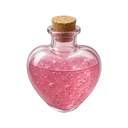
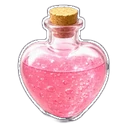
v239: het lila flesje en het hartflesje van Toverdranken zijn groter en helderder

diff --git a/bundel.js b/bundel.js
@@ -164,7 +164,7 @@ ${T?'<button class="knop volgende" id="gsdirect" style="font-size:1.35em;padding
  <section class="kaart hwblok"><h3>\u{1F4DC} Het verhaal</h3><ul class="hwverh">${g.map((ce,fe)=>{const me=ce.d<=U.i;return`<li class="${me?"":"dicht"}">${me?`<button class="linkknop" data-sc="${fe}">${A.sc[fe]?"":'<b class="hwnieuw">Nieuw</b> '}${ce.t}</button>`:`<span>\u{1F512} ${ce.t}</span><small>vanaf ${i(U.j,ce.d)}</small>`}</li>`}).join("")}</ul></section>
  </div>`);const Q=$("#hwclaim");Q&&(Q.onclick=T),document.querySelectorAll("[data-sc]").forEach(ce=>ce.onclick=()=>{const fe=+ce.dataset.sc;x(g[fe],()=>{A.sc[fe]||(A.sc[fe]=1,s(10,"verhaal"),toast("\u{1F4DC} +10 Pompoensnoepjes van Henk")),V.halloween()})}),document.querySelectorAll(".hwopties [data-o]").forEach(ce=>ce.onclick=()=>{const fe=+ce.dataset.o,me=m[N],Le=$("#hwraadres");if(fe===me[2]){A.raad[N]=1,s(15,"raadsel"),S.galjoenen+=10,bewaar();try{stats(),fx.speel("goed"),vib([20,30,40])}catch{}Le.innerHTML=`<div class="hwgoed">${window.tilly?tilly("<b>Goed zo!</b> "+me[3]):""}<p>+15 Pompoensnoepjes \xB7 +10 Smekkies</p><button class="knop klein" id="hwrv">Verder</button></div>`,document.querySelectorAll(".hwopties button").forEach(He=>He.disabled=!0),$("#hwrv").onclick=()=>V.halloween()}else{ce.disabled=!0,ce.classList.add("mis");try{fx.speel("kras")}catch{}Le.innerHTML='<p class="klein hwhint">Hmm, dat is het niet. Probeer gerust nog eens, er is geen haast.</p>'}})};const Z=V.kamer;Z&&(V.kamer=(...U)=>{const A=Z(...U);try{const N=document.querySelector(".kamer");N&&(S.hwTrofee||[]).length&&!N.querySelector(".hwtrofee")&&N.insertAdjacentHTML("beforeend",`<div class="hwtrofee" title="Gouden Pompoen ${S.hwTrofee.join(", ")}"><img src="img/hw/trofee-256.webp" alt="Gouden Pompoen"><small>Halloween ${S.hwTrofee.join(" \xB7 ")}</small></div>`)}catch{}return A});try{if(typeof KAARTEN<"u"&&!KAARTEN.some(U=>U[0]==L)&&(KAARTEN.push([L,"Z","Het huisspook van Griffoendor. Zijn hoofd hangt nog aan \xE9\xE9n reepje vel. Op 31 oktober vierde hij zijn vijfhonderdste sterfdag, en jij was erbij.","img/kaarten/haast-onthoofde-henk.webp","Feestdagen",1]),window.KAARTSERIES&&!KAARTSERIES.includes("Feestdagen")&&KAARTSERIES.push("Feestdagen")),typeof trekKaart=="function"){const U=trekKaart;trekKaart=function(){let A;for(let N=0;N<30;N++)if(A=U(),!A||!A[5])return A;return KAARTEN.find(N=>!N[5])}}}catch(U){console.warn(U)}const ee=V.maker;ee&&(V.maker=(...U)=>{const A=ee(...U);try{const N=o(),Q=localStorage.getItem("zw_hwdatum")||"";$("#app").insertAdjacentHTML("beforeend",`<section class="kaart sierlijst"><h3>Halloween (test)</h3><p class="klein">Nu: ${N.d.toLocaleDateString("nl-NL",{weekday:"long",day:"numeric",month:"long"})} \xB7 ${N.aan?"event AAN (dag "+(N.i+1)+" van 9"+(N.feest?", feestdag":"")+")":"event uit"}${Q?" \xB7 <b>testdatum</b>":""} \xB7 ${(S.hw&&S.hw.tot)|0} snoepjes, stap ${(S.hw&&S.hw.stap)|0}/10</p>
   <p><input type="date" id="hwdat" value="${Q||N.d.getFullYear()+"-"+e(N.d.getMonth()+1)+"-"+e(N.d.getDate())}"> <button class="knop klein" id="hwzet">Gebruik datum</button> <button class="knop klein" id="hwecht">Echte datum</button></p>
-  <p><button class="knop klein" id="hw100">+100 snoepjes</button> <button class="knop klein" id="hwwis">Halloween-voortgang wissen</button></p></section>`),$("#hwzet").onclick=()=>{localStorage.setItem("zw_hwdatum",$("#hwdat").value),te(),V.maker()},$("#hwecht").onclick=()=>{localStorage.removeItem("zw_hwdatum"),te(),V.maker()},$("#hw100").onclick=()=>{s(100,"test"),V.maker()},$("#hwwis").onclick=()=>{delete S.hw,bewaar(),V.maker()}}catch(N){console.warn(N)}return A})})(),(function(){const e="v238";window.ZW_VERSIE=e;const n=()=>`<p class="zwversie">Zweinstein Luna ${e}</p>`,a=V.meer;a&&(V.meer=(...i)=>{const r=a(...i);try{const l=$("#app");l&&!l.querySelector(".zwversie")&&l.insertAdjacentHTML("beforeend",n())}catch{}return r});const o=V.maker;o&&(V.maker=(...i)=>{const r=o(...i);try{const l=$("#app h2");l&&!$("#app .zwversie")&&l.insertAdjacentHTML("afterend",n())}catch{}return r})})(),(()=>{if(typeof m3Winst!="function"||typeof Bord>"u")return;const e=matchMedia("(prefers-reduced-motion: reduce)").matches,n=h=>new Promise(f=>setTimeout(f,h));let a=0,o=0;function i(){let h=document.getElementById("m3sc");if(!h){const f=document.querySelector(".m3mid .m3titel");if(!f)return null;f.insertAdjacentHTML("afterend",'<div class="m3score">Score <b id="m3sc">0</b></div>'),h=document.getElementById("m3sc"),a=0}return h}setInterval(()=>{try{if(typeof M3>"u"||!M3.b||M3.b.sim||document.body.dataset.view!=="match3")return;const h=i();if(!h)return;o=M3.b.score|0,a>o&&(a=o),a<o&&(a=Math.min(o,a+Math.max(5,Math.ceil((o-a)/4))),h.textContent=a.toLocaleString("nl-NL")),p(M3.b)}catch{}},60);let r=null,l=-1;function p(h){const f=document.getElementById("m3bv");if(!f||!h._grens)return;r!==h&&(r=h,l=-1);const K=Math.min(100,a/h._max*100);Math.abs(K-l)>=.2&&(l=K,f.style.width=K.toFixed(1)+"%");const E=document.querySelectorAll("#m3balk .m3bs"),g=[h.klaar&&h.klaar(),a>=h._grens[0],a>=h._grens[1]];E.forEach((x,m)=>{if(g[m]&&!x.classList.contains("aan")){if(x.classList.add("aan","pop"),setTimeout(()=>x.classList.remove("pop"),600),m)try{fx.speel("munt")}catch{}}else!g[m]&&x.classList.contains("aan")&&x.classList.remove("aan")})}const w=h=>{const f=[];for(let K=0;K<RIJEN;K++)for(let E=0;E<KOL;E++){const g=h.g[K][E];g&&g.k>=0&&!g.s&&!h.kist[K][E]&&!(h.strik&&h.strik[K][E])&&f.push([K,E])}return f},y=h=>{const f=[];for(let K=0;K<RIJEN;K++)for(let E=0;E<KOL;E++){const g=h.g[K][E];g&&g.s&&!h.kist[K][E]&&!(h.strik&&h.strik[K][E])&&f.push([K,E])}return f};function d(h,f,K){if(e||!h||!f)return;const E=document.createElement("div");E.className="m3vonk",document.body.appendChild(E);const g=f[0]-h[0],x=f[1]-h[1];E.style.left=h[0]+"px",E.style.top=h[1]+"px",E.animate([{transform:"translate(-50%,-50%) scale(.6)",opacity:.2},{transform:`translate(calc(${g*.5}px - 50%),calc(${x*.5-40}px - 50%)) scale(1.1)`,opacity:1,offset:.5},{transform:`translate(calc(${g}px - 50%),calc(${x}px - 50%)) scale(.7)`,opacity:.9}],{duration:K,easing:"cubic-bezier(.4,0,.3,1)",fill:"forwards"}).onfinish=()=>E.remove(),setTimeout(()=>E.remove(),K+400)}function j(h,f,K){const E=document.createElement("div");E.className="m3plus",E.textContent=K,E.style.left=h+"px",E.style.top=f+"px",document.body.appendChild(E),setTimeout(()=>E.remove(),900)}async function u(h){const f={pop:0,boem:0,spec:0,score0:h.score|0};window._feestLog=f;const K=document.getElementById("m3c"),E=document.getElementById("m3z");if(!K||!E)return;const g=(h._feestZet!=null?h._feestZet:h.zet)|0;let x=g,m=1,k=0;h.telDoel=()=>{},h.zaadKist=1;const v=h.fx.push;h.fx.push=function(...se){return v.apply(this,se.map(ae=>ae&&ae.t=="schat"?{t:"tik",r:ae.r,c:ae.c,s:ae.s}:ae&&ae.t=="vrij"?{t:"plank",r:ae.r,c:ae.c,over:0}:ae))},h.wacht=se=>new Promise(ae=>setTimeout(ae,se/m));const s=document.createElement("div");s.id="m3feest",s.innerHTML="<span>Tik om te versnellen</span>",document.body.appendChild(s),s.addEventListener("pointerdown",se=>{se.preventDefault(),k++,m=Math.min(12,k==1?3.5:m*1.7),s.classList.add("snel"),s.querySelector("span").textContent=m>=6?"\u23E9\u23E9 Supersnel":"\u23E9 Sneller";try{fx.speel("whoosh")}catch{}});const z=()=>K.getBoundingClientRect(),c=()=>z().width/KOL,b=(se,ae)=>{const te=z(),pe=te.width/KOL;return[te.left+(ae+.5)*pe,te.top+(se+.5)*pe]},M=()=>{const se=E.getBoundingClientRect();return[se.left+se.width/2,se.top+se.height/2]},R=Math.max(70,Math.min(170,4200/Math.max(1,g)));try{for(let te=1;te<=g;te++){const pe=w(h);if(!pe.length)break;const ne=R/m,X=pe[Math.random()*pe.length|0];d(M(),b(...X),Math.max(60,ne*1.1)),x--,E.textContent=x,E.parentNode.classList.toggle("weinig",!1),await n(Math.max(40,ne*1.05));const[t,_]=X;if(te%5===0){const O=[];for(let de=t-1;de<=t+1;de++)for(let C=_-1;C<=_+1;C++)if(h.binnen(de,C)){const T=h.g[de][C];T&&T.k>=0&&!T.s&&!h.kist[de][C]&&!(h.strik&&h.strik[de][C])&&O.push([de,C,T.k])}O.forEach(([de,C,T])=>{h.g[de][C].weg=1,h.g[de][C]=null,h.fx.push({t:"pof",r:de,c:C,k:T})}),h.fx.push({t:"bom",r:t,c:_,R:1});const D=60*O.length+200;h.score+=D,f.boem++;const q=b(t,_);j(q[0],q[1],"+"+D);try{fx.speel("kist")}catch{}}else{const O=h.g[t][_];O&&(O.weg=1,h.g[t][_]=null,h.fx.push({t:"pof",r:t,c:_,k:O.k})),h.score+=100,f.pop++;const D=b(t,_);te%2&&j(D[0],D[1],"+100");try{fx.speel("klik")}catch{}}try{M3.toonFx()}catch{}h.val()}E.textContent=0,await n(Math.max(60,260/m)),await M3.knal([]);const se=Date.now();let ae=0;for(;ae<30&&Date.now()-se<9e3;){const te=y(h);if(!te.length)break;const pe=te.sort((_,O)=>_[0]-O[0]||_[1]-O[1])[0],ne=b(...pe),X=h.score;if(!await M3.knal([pe])){await n(120),ae++;continue}h.score+=150,f.spec++,ae++,j(ne[0],ne[1],"+"+(h.score-X|0));try{fx.speel("tover")}catch{}await n(Math.max(40,180/m))}await n(Math.max(80,350/m))}catch(se){console.warn(se)}finally{s.remove(),delete h.telDoel,delete h.wacht,h.fx.push=v,E.textContent=g,f.score=h.score|0,f.sp=m;const se=i();se&&(a=h.score|0,se.textContent=a.toLocaleString("nl-NL"))}}const L=m3Winst;window.m3Winst=m3Winst=function(h,f,...K){let E=!1;try{E=!!(f&&!f.sim&&!f._feest&&f.zet>0&&typeof M3<"u"&&M3.b===f&&M3.knal&&document.getElementById("m3c")&&document.body.dataset.view==="match3")}catch{}const g=()=>{let k;try{k=L.call(this,h,f,...K)}finally{try{ECO.winKlaar(h)}catch{}}try{const v=f.score|0,s=document.querySelector(".m3eind h2");s&&v&&!document.querySelector(".m3eindscore")&&s.insertAdjacentHTML("afterend",`<p class="m3eindscore">Score <b>${v.toLocaleString("nl-NL")}</b></p>`)}catch{}return k};if(!E)return g();f._feest=1;try{ECO.winStart(h,f)}catch{}let x=!1;const m=()=>{x||(x=!0,g())};u(f).catch(k=>console.warn(k)).finally(m),setTimeout(m,3e4)}})(),(()=>{if(typeof V>"u"||!V.mijnkas)return;const e=m=>typeof m=="function",n=()=>S.m3lvl|0,a=m=>typeof ZADEN<"u"&&ZADEN[m]?ZADEN[m][0]:m,o=()=>Date.now(),i=[1e3,1600,2400,3200],r=["de groene kruidenpot","de Edelsteenpot","de Kristalpot","de Hartpot"];function l(){const m=[];return document.querySelectorAll(".mk-pot[data-i]").forEach(k=>m.push({i:+k.dataset.i,el:k,sel:`.mk-pot[data-i="${k.dataset.i}"]`})),document.querySelectorAll(".mk-vloer[data-m]").forEach(k=>{const v=+k.dataset.m;S.mega&&S.mega[v]||m.push({i:200+v,el:k,sel:`.mk-vloer[data-m="${v}"]`})}),m}const p=m=>(S.kweek||{})[m]||null,w=m=>e(window.stadium)||typeof stadium=="function"?stadium(m):-1;function y(m){return Object.keys(S.zaden||{}).filter(k=>(S.zaden[k]|0)>0&&typeof ZADEN<"u"&&ZADEN[k]&&(typeof kruidMag!="function"||kruidMag(k,m)))}function d(){if(typeof ZADEN>"u")return null;let m=null;return Object.entries(ZADEN).forEach(([k,v])=>{window.SUPERPLANTEN&&SUPERPLANTEN[k]||window.zaadDicht&&zaadDicht(k)||typeof kruidSlot=="function"&&kruidSlot(k)||(!m||v[3]<m[1])&&(m=[k,v[3]])}),m}function j(){const m=[],k=l(),v=k.filter(te=>!p(te.i)),s=k.filter(te=>p(te.i)&&w(p(te.i))<4),z=k.filter(te=>p(te.i)&&w(p(te.i))==4),c=S.galjoenen|0,b=window.leraarPoort&&leraarPoort();if(b){const te=i[0];m.push({id:"poort",ico:"\u{1FAB4}",wie:b.prof,tekst:c>=te?`Koop ${r[0]} bij Potten. Dan gaat level ${b.na+1} open.`:`Spaar voor ${r[0]}. Daarna gaat level ${b.na+1} open.`,tel:`${Math.min(c,te)}/${te}`,doel:"#potwinkel",doen:c>=te})}if(z.length){const te=z[0];m.push({id:"oogst",ico:"\u{1F33F}",tekst:z.length>1?`Oogst je planten! ${a(p(te.i).z)} is klaar, en nog ${z.length-1} andere.`:`Oogst je ${a(p(te.i).z)}. Hij is klaar!`,tel:null,doel:te.sel,doen:!0})}if(e(window.kOpdr)||typeof kOpdr=="function")try{const te=kOpdr(),pe=te[0],ne=window.zaadDicht&&zaadDicht(pe),X=typeof kruidSlot=="function"&&kruidSlot(pe),t=kOpdrTel();if(ne||X)m.push({id:"opdr",ico:"\u{1F4DC}",wie:te[3],tekst:te[2],tel:`${t}/${te[1]}`,dicht:ne?`Vanaf level ${ne}`:"Eerst de groene kruidenpot"});else{const _=s.find(C=>p(C.i).z===pe),O=v.find(C=>typeof kruidMag!="function"||kruidMag(pe,C.i));let D,q=null,de=!1;z.some(C=>p(C.i).z===pe)?(D=`Oogst je ${a(pe)}.`,q=z.find(C=>p(C.i).z===pe).sel,de=!0):_?(D=`Je ${a(pe)} groeit. Nog ${tijd(rest(p(_.i)))}.`,q=_.sel):(S.zaden[pe]|0)>0&&O?(D=`Plant een ${a(pe)}-zaadje.`,q=O.sel,de=!0):(S.zaden[pe]|0)>0?D=`Plant een ${a(pe)}-zaadje zodra er een pot vrij is.`:c>=ZADEN[pe][3]?(D=`Koop een ${a(pe)}-zaadje in de Winkel.`,q="#balkwinkel",de=!0):D=`Speel een level voor Smekkies voor een ${a(pe)}-zaadje.`,m.push({id:"opdr",ico:"\u{1F4DC}",wie:te[3],tekst:`${te[2]}. ${D}`,tel:`${t}/${te[1]}`,doel:q,doen:de})}}catch{}if(v.length){const te=v[0];if(y(te.i).length)m.push({id:"plant",ico:"\u{1F331}",tekst:"Plant een zaadje in je lege pot.",tel:null,doel:te.sel,doen:!0});else{const ne=d();ne&&c>=ne[1]&&m.push({id:"zaad",ico:"\u{1F6CD}\uFE0F",tekst:`Koop zaadjes in de Winkel (${a(ne[0])} kost ${ne[1]} Smekkies).`,doel:"#balkwinkel",doen:!0})}}const M=te=>window.spreukGeleerd&&spreukGeleerd(te),R=te=>!window.spreukOpen||spreukOpen(te),se=window.SPREUK_VAN||{flipendo:3,leviosa:6};if(window.waterMag&&waterMag())if(!S.kooiOpen)m.push({id:"kooi",ico:"\u{1F513}",tekst:"Open de kooi: tik op de knop met Flipendo naast het blok.",doel:".mk-kooiknop",doen:!0});else{const te=document.querySelector(".mk-kamer"),pe=te&&te.classList.contains("sproei"),X=1-((S.water||{}).blok|0),t=document.querySelector(`.mk-silos .mk-unit[data-i="${X}"] span`),_=t&&parseInt(t.textContent)>=100;!pe&&_&&m.push({id:"blok",ico:"\u{1F4A7}",tekst:"Een silo is vol! Laat het blok met Wingardium Leviosa naar de knop bij die silo zweven.",doel:".mk-blok",doen:!0})}else for(const[te,pe]of[["flipendo","Flipendo"],["leviosa","Wingardium Leviosa"]])if(!M(te)){R(te)?m.push({id:"les-"+te,ico:"\u{1FA84}",wie:"Professor Banning",tekst:`Leer ${pe} bij Professor Banning. Dan kan het water in je kas aan.`,doel:".mk-leviosa .knop",doen:!0}):m.push({id:"les-"+te,ico:"\u{1FA84}",wie:"Professor Banning",tekst:`Leer ${pe} voor de sproeiers.`,dicht:`Vanaf level ${se[te]}`});break}if(!document.querySelector(".mk-kamer.sproei")){const te=s.find(pe=>!(p(pe.i).nat>o()));te&&m.push({id:"water",ico:"\u{1F4A6}",tekst:`Geef je ${a(p(te.i).z)} water. Dan groeit hij 25% sneller.`,doel:te.sel,doen:!0})}try{const te=ne=>typeof telV=="function"?telV("oogst",ne):0;if(typeof dagQuests=="function"){const ne=dagQuests().find(X=>X[0]==="oogst");ne&&!(S.questKlaar||{})[vandaag()+"oogst"]&&te(0)<ne[1]&&m.push({id:"quest",ico:"\u{1F4CB}",tekst:ne[2]+".",tel:`${Math.min(ne[1],te(0))}/${ne[1]}`,info:1})}if((((S.tel||{})[vandaag()]||{}).oogst|0)<1&&m.push({id:"dagdoel",ico:"\u2B50",tekst:"Dagdoel: oogst vandaag een plant.",tel:"0/1",info:1}),typeof WEEKQ<"u"){const ne=WEEKQ.find(X=>X[0]==="oogst");ne&&te(1)<ne[1]&&m.push({id:"week",ico:"\u{1F4C5}",tekst:ne[2]+".",tel:`${Math.min(ne[1],te(1))}/${ne[1]}`,info:1})}}catch{}if(!b){const te=S.potUpgrade|0,pe=n()>=101||!!S.groteTafel||te>=3;te<4&&(te<2||pe)&&c>=i[te]&&m.push({id:"pot",ico:"\u{1F3FA}",tekst:`Je kunt ${r[te]} kopen bij Potten (${i[te]} Smekkies). Dan heb je plek voor een plant meer.`,doel:"#potwinkel",doen:!0})}return{T:m,groei:s}}function u(m){if(!m.length)return"Alles gedaan! Speel een level, dan verdien je Smekkies voor nieuwe zaadjes.";const k=Math.min(...m.map(v=>rest(p(v.i))));return`Alles gedaan! Kom terug als je planten klaar zijn (over ${tijd(k)}).`}let L=!1,h="";const f=m=>String(m).replace(/[&<>"]/g,k=>({"&":"&amp;","<":"&lt;",">":"&gt;",'"':"&quot;"})[k]);function K(m){if(document.body.dataset.view!=="mijnkas")return;const k=document.getElementById("app");if(!k||!k.querySelector(".mk-kamer"))return;const{T:v,groei:s}=j(),c=v.filter(ae=>ae.doen&&!ae.dicht)[0]||null,b=v.filter(ae=>ae!==c),M=JSON.stringify([L,v.map(ae=>[ae.id,ae.tekst,ae.tel,ae.dicht]),c?"":u(s)]);if(!m&&M===h&&document.getElementById("kastaak"))return;h=M;let R=document.getElementById("kastaak");R||(R=document.createElement("section"),R.id="kastaak",R.className="kastaak",k.appendChild(R));const se=ae=>`<li class="${ae.dicht?"dicht":""}${ae.info?" info":""}"><span class="kt-ico">${ae.ico}</span><span class="kt-txt">${ae.wie&&!ae.tekst.includes(ae.wie)?`<b>${f(ae.wie)}:</b> `:""}${f(ae.tekst)}${ae.dicht?` <em class="kt-slot">\u{1F512} ${f(ae.dicht)}</em>`:""}</span>${ae.tel?`<span class="kt-tel">${ae.tel}</span>`:""}${ae.doel&&!ae.dicht?`<button type="button" class="kt-wijs" data-doel="${f(ae.doel)}" aria-label="Laat zien waar">\u279C</button>`:""}</li>`;R.innerHTML=`<div class="kt-kop" role="button" aria-expanded="${L}"><span class="kt-label">${c?"Volgende stap":"Klaar voor nu"}</span>${b.length?`<span class="kt-meer">${L?"Minder \u25B4":`Nog ${b.length} \u25BE`}</span>`:""}</div>
+  <p><button class="knop klein" id="hw100">+100 snoepjes</button> <button class="knop klein" id="hwwis">Halloween-voortgang wissen</button></p></section>`),$("#hwzet").onclick=()=>{localStorage.setItem("zw_hwdatum",$("#hwdat").value),te(),V.maker()},$("#hwecht").onclick=()=>{localStorage.removeItem("zw_hwdatum"),te(),V.maker()},$("#hw100").onclick=()=>{s(100,"test"),V.maker()},$("#hwwis").onclick=()=>{delete S.hw,bewaar(),V.maker()}}catch(N){console.warn(N)}return A})})(),(function(){const e="v239";window.ZW_VERSIE=e;const n=()=>`<p class="zwversie">Zweinstein Luna ${e}</p>`,a=V.meer;a&&(V.meer=(...i)=>{const r=a(...i);try{const l=$("#app");l&&!l.querySelector(".zwversie")&&l.insertAdjacentHTML("beforeend",n())}catch{}return r});const o=V.maker;o&&(V.maker=(...i)=>{const r=o(...i);try{const l=$("#app h2");l&&!$("#app .zwversie")&&l.insertAdjacentHTML("afterend",n())}catch{}return r})})(),(()=>{if(typeof m3Winst!="function"||typeof Bord>"u")return;const e=matchMedia("(prefers-reduced-motion: reduce)").matches,n=h=>new Promise(f=>setTimeout(f,h));let a=0,o=0;function i(){let h=document.getElementById("m3sc");if(!h){const f=document.querySelector(".m3mid .m3titel");if(!f)return null;f.insertAdjacentHTML("afterend",'<div class="m3score">Score <b id="m3sc">0</b></div>'),h=document.getElementById("m3sc"),a=0}return h}setInterval(()=>{try{if(typeof M3>"u"||!M3.b||M3.b.sim||document.body.dataset.view!=="match3")return;const h=i();if(!h)return;o=M3.b.score|0,a>o&&(a=o),a<o&&(a=Math.min(o,a+Math.max(5,Math.ceil((o-a)/4))),h.textContent=a.toLocaleString("nl-NL")),p(M3.b)}catch{}},60);let r=null,l=-1;function p(h){const f=document.getElementById("m3bv");if(!f||!h._grens)return;r!==h&&(r=h,l=-1);const K=Math.min(100,a/h._max*100);Math.abs(K-l)>=.2&&(l=K,f.style.width=K.toFixed(1)+"%");const E=document.querySelectorAll("#m3balk .m3bs"),g=[h.klaar&&h.klaar(),a>=h._grens[0],a>=h._grens[1]];E.forEach((x,m)=>{if(g[m]&&!x.classList.contains("aan")){if(x.classList.add("aan","pop"),setTimeout(()=>x.classList.remove("pop"),600),m)try{fx.speel("munt")}catch{}}else!g[m]&&x.classList.contains("aan")&&x.classList.remove("aan")})}const w=h=>{const f=[];for(let K=0;K<RIJEN;K++)for(let E=0;E<KOL;E++){const g=h.g[K][E];g&&g.k>=0&&!g.s&&!h.kist[K][E]&&!(h.strik&&h.strik[K][E])&&f.push([K,E])}return f},y=h=>{const f=[];for(let K=0;K<RIJEN;K++)for(let E=0;E<KOL;E++){const g=h.g[K][E];g&&g.s&&!h.kist[K][E]&&!(h.strik&&h.strik[K][E])&&f.push([K,E])}return f};function d(h,f,K){if(e||!h||!f)return;const E=document.createElement("div");E.className="m3vonk",document.body.appendChild(E);const g=f[0]-h[0],x=f[1]-h[1];E.style.left=h[0]+"px",E.style.top=h[1]+"px",E.animate([{transform:"translate(-50%,-50%) scale(.6)",opacity:.2},{transform:`translate(calc(${g*.5}px - 50%),calc(${x*.5-40}px - 50%)) scale(1.1)`,opacity:1,offset:.5},{transform:`translate(calc(${g}px - 50%),calc(${x}px - 50%)) scale(.7)`,opacity:.9}],{duration:K,easing:"cubic-bezier(.4,0,.3,1)",fill:"forwards"}).onfinish=()=>E.remove(),setTimeout(()=>E.remove(),K+400)}function j(h,f,K){const E=document.createElement("div");E.className="m3plus",E.textContent=K,E.style.left=h+"px",E.style.top=f+"px",document.body.appendChild(E),setTimeout(()=>E.remove(),900)}async function u(h){const f={pop:0,boem:0,spec:0,score0:h.score|0};window._feestLog=f;const K=document.getElementById("m3c"),E=document.getElementById("m3z");if(!K||!E)return;const g=(h._feestZet!=null?h._feestZet:h.zet)|0;let x=g,m=1,k=0;h.telDoel=()=>{},h.zaadKist=1;const v=h.fx.push;h.fx.push=function(...se){return v.apply(this,se.map(ae=>ae&&ae.t=="schat"?{t:"tik",r:ae.r,c:ae.c,s:ae.s}:ae&&ae.t=="vrij"?{t:"plank",r:ae.r,c:ae.c,over:0}:ae))},h.wacht=se=>new Promise(ae=>setTimeout(ae,se/m));const s=document.createElement("div");s.id="m3feest",s.innerHTML="<span>Tik om te versnellen</span>",document.body.appendChild(s),s.addEventListener("pointerdown",se=>{se.preventDefault(),k++,m=Math.min(12,k==1?3.5:m*1.7),s.classList.add("snel"),s.querySelector("span").textContent=m>=6?"\u23E9\u23E9 Supersnel":"\u23E9 Sneller";try{fx.speel("whoosh")}catch{}});const z=()=>K.getBoundingClientRect(),c=()=>z().width/KOL,b=(se,ae)=>{const te=z(),pe=te.width/KOL;return[te.left+(ae+.5)*pe,te.top+(se+.5)*pe]},M=()=>{const se=E.getBoundingClientRect();return[se.left+se.width/2,se.top+se.height/2]},R=Math.max(70,Math.min(170,4200/Math.max(1,g)));try{for(let te=1;te<=g;te++){const pe=w(h);if(!pe.length)break;const ne=R/m,X=pe[Math.random()*pe.length|0];d(M(),b(...X),Math.max(60,ne*1.1)),x--,E.textContent=x,E.parentNode.classList.toggle("weinig",!1),await n(Math.max(40,ne*1.05));const[t,_]=X;if(te%5===0){const O=[];for(let de=t-1;de<=t+1;de++)for(let C=_-1;C<=_+1;C++)if(h.binnen(de,C)){const T=h.g[de][C];T&&T.k>=0&&!T.s&&!h.kist[de][C]&&!(h.strik&&h.strik[de][C])&&O.push([de,C,T.k])}O.forEach(([de,C,T])=>{h.g[de][C].weg=1,h.g[de][C]=null,h.fx.push({t:"pof",r:de,c:C,k:T})}),h.fx.push({t:"bom",r:t,c:_,R:1});const D=60*O.length+200;h.score+=D,f.boem++;const q=b(t,_);j(q[0],q[1],"+"+D);try{fx.speel("kist")}catch{}}else{const O=h.g[t][_];O&&(O.weg=1,h.g[t][_]=null,h.fx.push({t:"pof",r:t,c:_,k:O.k})),h.score+=100,f.pop++;const D=b(t,_);te%2&&j(D[0],D[1],"+100");try{fx.speel("klik")}catch{}}try{M3.toonFx()}catch{}h.val()}E.textContent=0,await n(Math.max(60,260/m)),await M3.knal([]);const se=Date.now();let ae=0;for(;ae<30&&Date.now()-se<9e3;){const te=y(h);if(!te.length)break;const pe=te.sort((_,O)=>_[0]-O[0]||_[1]-O[1])[0],ne=b(...pe),X=h.score;if(!await M3.knal([pe])){await n(120),ae++;continue}h.score+=150,f.spec++,ae++,j(ne[0],ne[1],"+"+(h.score-X|0));try{fx.speel("tover")}catch{}await n(Math.max(40,180/m))}await n(Math.max(80,350/m))}catch(se){console.warn(se)}finally{s.remove(),delete h.telDoel,delete h.wacht,h.fx.push=v,E.textContent=g,f.score=h.score|0,f.sp=m;const se=i();se&&(a=h.score|0,se.textContent=a.toLocaleString("nl-NL"))}}const L=m3Winst;window.m3Winst=m3Winst=function(h,f,...K){let E=!1;try{E=!!(f&&!f.sim&&!f._feest&&f.zet>0&&typeof M3<"u"&&M3.b===f&&M3.knal&&document.getElementById("m3c")&&document.body.dataset.view==="match3")}catch{}const g=()=>{let k;try{k=L.call(this,h,f,...K)}finally{try{ECO.winKlaar(h)}catch{}}try{const v=f.score|0,s=document.querySelector(".m3eind h2");s&&v&&!document.querySelector(".m3eindscore")&&s.insertAdjacentHTML("afterend",`<p class="m3eindscore">Score <b>${v.toLocaleString("nl-NL")}</b></p>`)}catch{}return k};if(!E)return g();f._feest=1;try{ECO.winStart(h,f)}catch{}let x=!1;const m=()=>{x||(x=!0,g())};u(f).catch(k=>console.warn(k)).finally(m),setTimeout(m,3e4)}})(),(()=>{if(typeof V>"u"||!V.mijnkas)return;const e=m=>typeof m=="function",n=()=>S.m3lvl|0,a=m=>typeof ZADEN<"u"&&ZADEN[m]?ZADEN[m][0]:m,o=()=>Date.now(),i=[1e3,1600,2400,3200],r=["de groene kruidenpot","de Edelsteenpot","de Kristalpot","de Hartpot"];function l(){const m=[];return document.querySelectorAll(".mk-pot[data-i]").forEach(k=>m.push({i:+k.dataset.i,el:k,sel:`.mk-pot[data-i="${k.dataset.i}"]`})),document.querySelectorAll(".mk-vloer[data-m]").forEach(k=>{const v=+k.dataset.m;S.mega&&S.mega[v]||m.push({i:200+v,el:k,sel:`.mk-vloer[data-m="${v}"]`})}),m}const p=m=>(S.kweek||{})[m]||null,w=m=>e(window.stadium)||typeof stadium=="function"?stadium(m):-1;function y(m){return Object.keys(S.zaden||{}).filter(k=>(S.zaden[k]|0)>0&&typeof ZADEN<"u"&&ZADEN[k]&&(typeof kruidMag!="function"||kruidMag(k,m)))}function d(){if(typeof ZADEN>"u")return null;let m=null;return Object.entries(ZADEN).forEach(([k,v])=>{window.SUPERPLANTEN&&SUPERPLANTEN[k]||window.zaadDicht&&zaadDicht(k)||typeof kruidSlot=="function"&&kruidSlot(k)||(!m||v[3]<m[1])&&(m=[k,v[3]])}),m}function j(){const m=[],k=l(),v=k.filter(te=>!p(te.i)),s=k.filter(te=>p(te.i)&&w(p(te.i))<4),z=k.filter(te=>p(te.i)&&w(p(te.i))==4),c=S.galjoenen|0,b=window.leraarPoort&&leraarPoort();if(b){const te=i[0];m.push({id:"poort",ico:"\u{1FAB4}",wie:b.prof,tekst:c>=te?`Koop ${r[0]} bij Potten. Dan gaat level ${b.na+1} open.`:`Spaar voor ${r[0]}. Daarna gaat level ${b.na+1} open.`,tel:`${Math.min(c,te)}/${te}`,doel:"#potwinkel",doen:c>=te})}if(z.length){const te=z[0];m.push({id:"oogst",ico:"\u{1F33F}",tekst:z.length>1?`Oogst je planten! ${a(p(te.i).z)} is klaar, en nog ${z.length-1} andere.`:`Oogst je ${a(p(te.i).z)}. Hij is klaar!`,tel:null,doel:te.sel,doen:!0})}if(e(window.kOpdr)||typeof kOpdr=="function")try{const te=kOpdr(),pe=te[0],ne=window.zaadDicht&&zaadDicht(pe),X=typeof kruidSlot=="function"&&kruidSlot(pe),t=kOpdrTel();if(ne||X)m.push({id:"opdr",ico:"\u{1F4DC}",wie:te[3],tekst:te[2],tel:`${t}/${te[1]}`,dicht:ne?`Vanaf level ${ne}`:"Eerst de groene kruidenpot"});else{const _=s.find(C=>p(C.i).z===pe),O=v.find(C=>typeof kruidMag!="function"||kruidMag(pe,C.i));let D,q=null,de=!1;z.some(C=>p(C.i).z===pe)?(D=`Oogst je ${a(pe)}.`,q=z.find(C=>p(C.i).z===pe).sel,de=!0):_?(D=`Je ${a(pe)} groeit. Nog ${tijd(rest(p(_.i)))}.`,q=_.sel):(S.zaden[pe]|0)>0&&O?(D=`Plant een ${a(pe)}-zaadje.`,q=O.sel,de=!0):(S.zaden[pe]|0)>0?D=`Plant een ${a(pe)}-zaadje zodra er een pot vrij is.`:c>=ZADEN[pe][3]?(D=`Koop een ${a(pe)}-zaadje in de Winkel.`,q="#balkwinkel",de=!0):D=`Speel een level voor Smekkies voor een ${a(pe)}-zaadje.`,m.push({id:"opdr",ico:"\u{1F4DC}",wie:te[3],tekst:`${te[2]}. ${D}`,tel:`${t}/${te[1]}`,doel:q,doen:de})}}catch{}if(v.length){const te=v[0];if(y(te.i).length)m.push({id:"plant",ico:"\u{1F331}",tekst:"Plant een zaadje in je lege pot.",tel:null,doel:te.sel,doen:!0});else{const ne=d();ne&&c>=ne[1]&&m.push({id:"zaad",ico:"\u{1F6CD}\uFE0F",tekst:`Koop zaadjes in de Winkel (${a(ne[0])} kost ${ne[1]} Smekkies).`,doel:"#balkwinkel",doen:!0})}}const M=te=>window.spreukGeleerd&&spreukGeleerd(te),R=te=>!window.spreukOpen||spreukOpen(te),se=window.SPREUK_VAN||{flipendo:3,leviosa:6};if(window.waterMag&&waterMag())if(!S.kooiOpen)m.push({id:"kooi",ico:"\u{1F513}",tekst:"Open de kooi: tik op de knop met Flipendo naast het blok.",doel:".mk-kooiknop",doen:!0});else{const te=document.querySelector(".mk-kamer"),pe=te&&te.classList.contains("sproei"),X=1-((S.water||{}).blok|0),t=document.querySelector(`.mk-silos .mk-unit[data-i="${X}"] span`),_=t&&parseInt(t.textContent)>=100;!pe&&_&&m.push({id:"blok",ico:"\u{1F4A7}",tekst:"Een silo is vol! Laat het blok met Wingardium Leviosa naar de knop bij die silo zweven.",doel:".mk-blok",doen:!0})}else for(const[te,pe]of[["flipendo","Flipendo"],["leviosa","Wingardium Leviosa"]])if(!M(te)){R(te)?m.push({id:"les-"+te,ico:"\u{1FA84}",wie:"Professor Banning",tekst:`Leer ${pe} bij Professor Banning. Dan kan het water in je kas aan.`,doel:".mk-leviosa .knop",doen:!0}):m.push({id:"les-"+te,ico:"\u{1FA84}",wie:"Professor Banning",tekst:`Leer ${pe} voor de sproeiers.`,dicht:`Vanaf level ${se[te]}`});break}if(!document.querySelector(".mk-kamer.sproei")){const te=s.find(pe=>!(p(pe.i).nat>o()));te&&m.push({id:"water",ico:"\u{1F4A6}",tekst:`Geef je ${a(p(te.i).z)} water. Dan groeit hij 25% sneller.`,doel:te.sel,doen:!0})}try{const te=ne=>typeof telV=="function"?telV("oogst",ne):0;if(typeof dagQuests=="function"){const ne=dagQuests().find(X=>X[0]==="oogst");ne&&!(S.questKlaar||{})[vandaag()+"oogst"]&&te(0)<ne[1]&&m.push({id:"quest",ico:"\u{1F4CB}",tekst:ne[2]+".",tel:`${Math.min(ne[1],te(0))}/${ne[1]}`,info:1})}if((((S.tel||{})[vandaag()]||{}).oogst|0)<1&&m.push({id:"dagdoel",ico:"\u2B50",tekst:"Dagdoel: oogst vandaag een plant.",tel:"0/1",info:1}),typeof WEEKQ<"u"){const ne=WEEKQ.find(X=>X[0]==="oogst");ne&&te(1)<ne[1]&&m.push({id:"week",ico:"\u{1F4C5}",tekst:ne[2]+".",tel:`${Math.min(ne[1],te(1))}/${ne[1]}`,info:1})}}catch{}if(!b){const te=S.potUpgrade|0,pe=n()>=101||!!S.groteTafel||te>=3;te<4&&(te<2||pe)&&c>=i[te]&&m.push({id:"pot",ico:"\u{1F3FA}",tekst:`Je kunt ${r[te]} kopen bij Potten (${i[te]} Smekkies). Dan heb je plek voor een plant meer.`,doel:"#potwinkel",doen:!0})}return{T:m,groei:s}}function u(m){if(!m.length)return"Alles gedaan! Speel een level, dan verdien je Smekkies voor nieuwe zaadjes.";const k=Math.min(...m.map(v=>rest(p(v.i))));return`Alles gedaan! Kom terug als je planten klaar zijn (over ${tijd(k)}).`}let L=!1,h="";const f=m=>String(m).replace(/[&<>"]/g,k=>({"&":"&amp;","<":"&lt;",">":"&gt;",'"':"&quot;"})[k]);function K(m){if(document.body.dataset.view!=="mijnkas")return;const k=document.getElementById("app");if(!k||!k.querySelector(".mk-kamer"))return;const{T:v,groei:s}=j(),c=v.filter(ae=>ae.doen&&!ae.dicht)[0]||null,b=v.filter(ae=>ae!==c),M=JSON.stringify([L,v.map(ae=>[ae.id,ae.tekst,ae.tel,ae.dicht]),c?"":u(s)]);if(!m&&M===h&&document.getElementById("kastaak"))return;h=M;let R=document.getElementById("kastaak");R||(R=document.createElement("section"),R.id="kastaak",R.className="kastaak",k.appendChild(R));const se=ae=>`<li class="${ae.dicht?"dicht":""}${ae.info?" info":""}"><span class="kt-ico">${ae.ico}</span><span class="kt-txt">${ae.wie&&!ae.tekst.includes(ae.wie)?`<b>${f(ae.wie)}:</b> `:""}${f(ae.tekst)}${ae.dicht?` <em class="kt-slot">\u{1F512} ${f(ae.dicht)}</em>`:""}</span>${ae.tel?`<span class="kt-tel">${ae.tel}</span>`:""}${ae.doel&&!ae.dicht?`<button type="button" class="kt-wijs" data-doel="${f(ae.doel)}" aria-label="Laat zien waar">\u279C</button>`:""}</li>`;R.innerHTML=`<div class="kt-kop" role="button" aria-expanded="${L}"><span class="kt-label">${c?"Volgende stap":"Klaar voor nu"}</span>${b.length?`<span class="kt-meer">${L?"Minder \u25B4":`Nog ${b.length} \u25BE`}</span>`:""}</div>
  <div class="kt-hoofd">${c?`<span class="kt-ico">${c.ico}</span><span class="kt-txt">${c.wie&&!c.tekst.includes(c.wie)?`<b>${f(c.wie)}:</b> `:""}${f(c.tekst)}</span>${c.tel?`<span class="kt-tel">${c.tel}</span>`:""}${c.doel?`<button type="button" class="kt-wijs groot" data-doel="${f(c.doel)}" aria-label="Laat zien waar">\u279C</button>`:""}`:`<span class="kt-ico">\u2728</span><span class="kt-txt">${f(u(s))}</span>`}</div>
  ${L&&b.length?`<ul class="kt-lijst">${b.map(se).join("")}</ul>`:""}`,R.querySelector(".kt-kop").onclick=()=>{L=!L,K(!0)},R.querySelector(".kt-hoofd").onclick=ae=>{ae.target.closest(".kt-wijs")||(b.length?(L=!L,K(!0)):c&&c.doel&&E(c.doel))},R.querySelectorAll(".kt-wijs").forEach(ae=>ae.onclick=te=>{te.stopPropagation(),E(ae.dataset.doel)}),c&&c.doel&&!E.gedaan&&(E.gedaan=1,setTimeout(()=>E(c.doel,1),900))}function E(m,k){const v=document.querySelector(m);if(v){try{v.scrollIntoView({behavior:matchMedia("(prefers-reduced-motion: reduce)").matches?"auto":"smooth",inline:"center",block:"nearest"})}catch{}if(document.querySelectorAll(".kt-gloed").forEach(s=>s.classList.remove("kt-gloed")),v.classList.add("kt-gloed"),clearTimeout(E.t),E.t=setTimeout(()=>v.classList.remove("kt-gloed"),k?3500:5e3),!k){L&&(L=!1,K(!0));try{fx.speel("klik")}catch{}}}}window.zwKasTaken=()=>j();const g=V.mijnkas;V.mijnkas=(...m)=>{const k=g(...m);try{h="",K(!0)}catch(v){console.warn(v)}return k};const x=ga;ga=function(m,...k){return m==="mijnkas"&&(E.gedaan=0),x(m,...k)},setInterval(()=>{try{document.body.dataset.view==="mijnkas"&&!document.querySelector(".modal")&&K()}catch{}},2e3)})(),(()=>{if(typeof KOPDR>"u"||typeof kOpdr!="function")return;const e=kOpdr,n=p=>window.ZAAD_VAN&&ZAAD_VAN[p]||1,a=p=>!(window.zaadDicht&&zaadDicht(p))&&!(typeof kruidSlot=="function"&&kruidSlot(p)),o=()=>KOPDR.map((p,w)=>({o:p,i:w})).sort((p,w)=>n(p.o[0])-n(w.o[0])||p.i-w.i),i=p=>KOPDR.find(w=>w[0]===p);function r(){S.kweekGedaan=S.kweekGedaan||{};const p=o().filter(w=>a(w.o[0]));return p.length?(p.sort((w,y)=>(S.kweekGedaan[w.o[0]]|0)-(S.kweekGedaan[y.o[0]]|0)||n(w.o[0])-n(y.o[0])||w.i-y.i),p[0].o):o()[0].o}function l(){const p=S.kweekOpdr|0;let w=S.kweekAct;if(w&&w.n!==p&&(w.n<p&&(S.kweekGedaan=S.kweekGedaan||{},S.kweekGedaan[w.z]=(S.kweekGedaan[w.z]|0)+(p-w.n)),w=null),w&&!i(w.z)&&(w=null),w&&!a(w.z)&&!((S.oogst||{})[w.z+"#"+p]>0)&&(w=null),!w){w={z:r()[0],n:p},S.kweekAct=w;try{bewaar()}catch{}}return i(w.z)}if(!S.kweekAct)try{const p=e(),w=S.kweekOpdr|0;(((S.oogst||{})[p[0]+"#"+w]|0)>0||a(p[0]))&&(S.kweekAct={z:p[0],n:w}),bewaar()}catch{}kOpdr=function(){try{return l()}catch{return e()}},window.zwKweekVolgorde=()=>o().map(p=>p.o[0]+"@"+n(p.o[0]))})(),(function(){"use strict";def("serieBel",{});const e={Tovenaars:"Kenner van de Tovenaars",Heksen:"Kenner van de Heksen",Beesten:"Vriend van de Beesten",Draken:"Drakenkenner",Reuzen:"Reuzenkundige",Kobolden:"Koboldenkundige",Vampiers:"Vampierdeskundige",Zwerkbal:"Zwerkbalverzamelaar",Bonus:"Erekandidaat van het album"};function n(){const h=typeof KAARTSERIES<"u"&&KAARTSERIES||window.KAARTSERIES||[],f=typeof KAARTEN<"u"&&KAARTEN||window.KAARTEN||[];return h.map(K=>{const E=f.filter(x=>x[4]===K),g=E.filter(x=>S.kaarten&&S.kaarten[x[0]]);return{naam:K,kaarten:E,heb:g,klaar:E.length>0&&g.length===E.length}})}function a(h,f={}){if(!h||!h.klaar||(S.serieBel||{})[h.naam])return!1;S.serieBel=S.serieBel||{},S.serieBel[h.naam]=1,S.titels=S.titels||[],S.titels.includes(e[h.naam]||h.naam)||S.titels.push(e[h.naam]||h.naam),bewaar();let K="";try{if(window.zeldzaamZaad){const g=zeldzaamZaad("album",{stil:1});K=g&&g.naam?g.naam:g||""}}catch{}const E=e[h.naam]||h.naam;if(!f.stil){const g=K?`Tilly: \u201CEen complete serie ${h.naam.toLowerCase()}! Je bent nu ${E}. En kijk, er lag een zeldzaam zaadje bij.\u201D`:`Tilly: \u201CEen complete serie ${h.naam.toLowerCase()}! Je bent nu ${E}.\u201D`;try{verhaal([["Tilly",g]],()=>{try{fx.speel("fanfare")}catch{}})}catch{try{toast("Serie "+h.naam+" compleet: "+E)}catch{}}}return!0}window.serieNaKaart=function(h){try{n().forEach(f=>a(f))}catch(f){console.warn(f)}};const o=V.album;V.album=function(){const h=n(),K=(typeof KAARTEN<"u"&&KAARTEN||window.KAARTEN||[]).length,E=Object.keys(S.kaarten||{}).length,g=h.map(x=>{const m=(S.serieBel||{})[x.naam],k=`<div class="aserkop"><h3>${x.naam}</h3><small>${x.heb.length}/${x.kaarten.length}${x.klaar?" \xB7 Compleet":""}${m?" \xB7 "+(e[x.naam]||""):""}</small></div>`,v=x.kaarten.map(s=>{const z=S.kaarten[s[0]]||0,c=z&&s[3]?`<img src="${s[3]}" alt="${s[0]}" loading="lazy">`:z?s[0].split(" ").map(b=>b[0]).join(""):"?";return`<div class="akaart ${z?"heb r"+s[1]:""}" title="${z?(s[2]||s[0]).replace(/"/g,""):"Nog niet gevonden"}"><div class="kfoto">${c}</div><b>${z?s[0]:"???"}</b><small>${z>1?"\xD7"+z:z?"&nbsp;":"nog te vinden"}</small></div>`}).join("");return`<section class="aserie ${x.klaar?"compleet":""}">${k}<div class="album">${v}</div></section>`}).join("");app(`<h1 class="pagkop">Kaartenalbum</h1><p>${E} van ${K} kaarten verzameld. Een complete serie geeft een titel, een korte sc\xE8ne en een zeldzaam zaadje. Dubbele kaarten bewaar je gewoon in je album.</p>${g}<p class="klein">Kaarten vind je in kistjes in de levels, als mijlpaal bij elk 10e level, als cadeau, in de bonuskamer en in Hagrids pompoenen.</p>`);try{h.forEach(x=>a(x))}catch{}};const i=typeof POST<"u"&&POST?POST:[["Tilly","Er kwam een uil voor je, Luna!"]];function r(){try{const h=typeof schoolDag=="function"?schoolDag():null,f=h&&h.inhoud?h.inhoud.titel:"je schooldag",K=i[Math.floor(Date.now()/864e5)%i.length],E=h?` Vandaag staat \u201C${f}\u201D op het programma.`:"";let g=K[1]||"";return g=g.replace(/\s*Er zaten 10 Smekkies bij\.?/gi,"").replace(/\s*Er zitten 10 Smekkies bij[,.]?/gi,"").replace(/\s*En hij stuurt 10 Smekkies mee\.?/gi,"").replace(/\s*alleen 10 glinsterende Smekkies en de woorden:/gi," de woorden:").replace(/\s*en de kaart danst nog steeds een beetje\.?/gi,".").trim(),[K[0],g+E]}catch{return i[0]}}function l(){const h=Date.now();return S.uilenpost?h-S.uilenpost>=2*864e5:(S.uilenpost=h,bewaar(),!1)}function p(){try{const h=j({geenPost:!0});return h?h.tekst:""}catch{return""}}const w=V.login;V.login=function(){const h=S.login||{dag:0,laatst:""},f=h.laatst===vandaag(),K=f?(h.dag+6)%7:h.dag%7;if(document.querySelector(".modal[data-pop=login],.modal[data-pop=ochtend]"))return;const E=!1,g=typeof LOGIN<"u"?LOGIN:[["15 Smekkies",{g:15}]],x=g[K],[m,k]=r(),v=p(),s=document.createElement("div");s.className="modal",s.dataset.pop="ochtend",s.innerHTML=`<div class="perkament modalin rococo ochtendpost">
     <p class="klein ochtenduil">Dagbeloning</p>

diff --git a/sw.js b/sw.js
@@ -1,4 +1,4 @@
-const C='zweinstein-v238';
+const C='zweinstein-v239';
 const F=["./", "index.html", "manifest.json", "CREDITS.txt", "bundel.css", "bundel.js", "img/icoon-192.png", "img/icoon-512.png", "img/lakzegel.webp", "img/sneeuwuil.webp", "img/perkament.webp", "img/perkament-sm.webp", "img/sterrenhemel-sm.webp", "img/hal-zaal-sm.webp", "img/ui/nav-hal-96.webp", "img/ui/nav-kaart-96.webp", "img/ui/nav-kassen-96.webp", "img/ui/nav-boek-96.webp", "img/ui/nav-meer-96.webp", "img/ui/nav-vrienden-96.webp", "img/ui/schild-64.webp", "img/smekkies/zak-half-128.webp", "img/laadschermen/herbologie-klein.webp", "tuin3d.html", "tuin3d.js", "tuin3d.css", "vendor/three.min.js","vendor/GLTFLoader.min.js", "assets/tuin3d/luna.glb", "assets/tuin3d/gargoyle.glb", "assets/tuin3d/dieren/hond.glb", "assets/tuin3d/dieren/kat.glb", "assets/tuin3d/dieren/vos.glb", "assets/tuin3d/dieren/arend.glb", "assets/tuin3d/dieren/kuiken.glb", "assets/tuin3d/tex/gras.webp", "assets/tuin3d/tex/kassei.webp", "assets/tuin3d/tex/kassei-n.webp", "assets/tuin3d/tex/zandsteen.webp", "assets/tuin3d/tex/zandsteen-n.webp", "assets/tuin3d/tex/leisteen.webp", "assets/tuin3d/tex/haag.webp", "assets/tuin3d/tex/steen.webp"];
 const KRITIEK=["./","index.html","bundel.js","bundel.css"];
 async function zetIn(c,u){

diff --git a/versie.js b/versie.js
@@ -1,5 +1,5 @@
 /* ====== v125 Versielabel: klein in Meer en in het makermenu, zodat je kunt zien welke versie een telefoon draait ====== */
-(function(){const VERSIE='v238';window.ZW_VERSIE=VERSIE;
+(function(){const VERSIE='v239';window.ZW_VERSIE=VERSIE;
  const label=()=>`<p class="zwversie">Zweinstein Luna ${VERSIE}</p>`;
  const _meer=V.meer;if(_meer)V.meer=(...a)=>{const r=_meer(...a);try{const app=$('#app');if(app&&!app.querySelector('.zwversie'))app.insertAdjacentHTML('beforeend',label())}catch(e){}return r};
  const _mk=V.maker;if(_mk)V.maker=(...a)=>{const r=_mk(...a);try{const h=$('#app h2');if(h&&!$('#app .zwversie'))h.insertAdjacentHTML('afterend',label())}catch(e){}return r};
